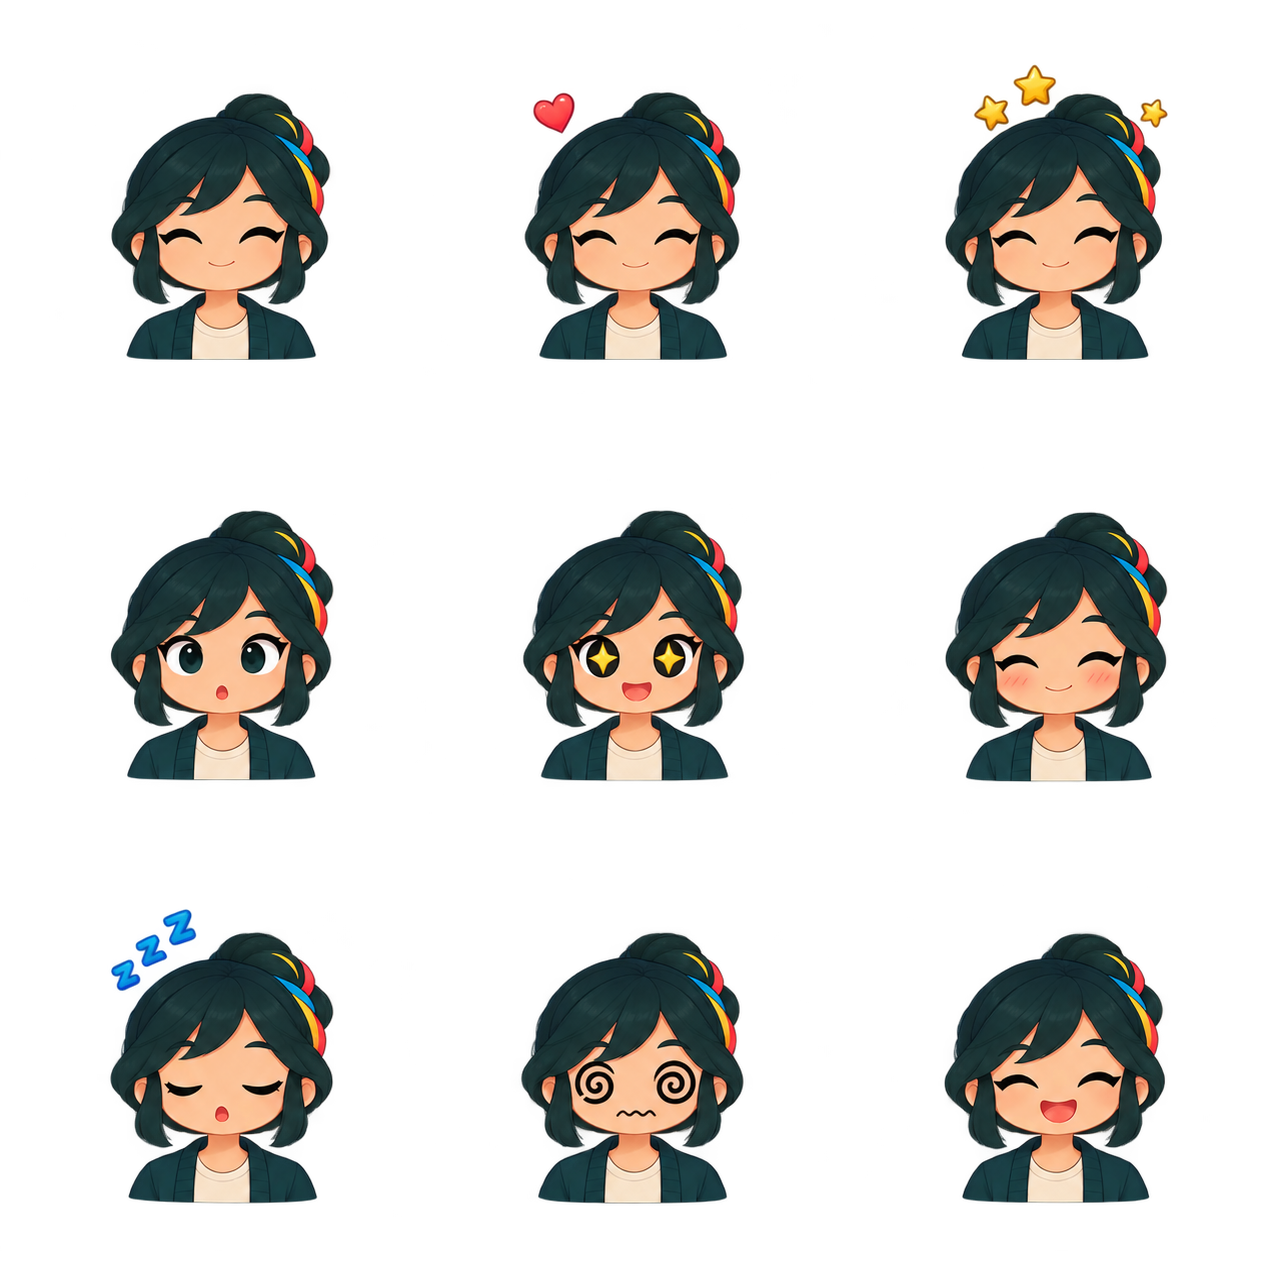
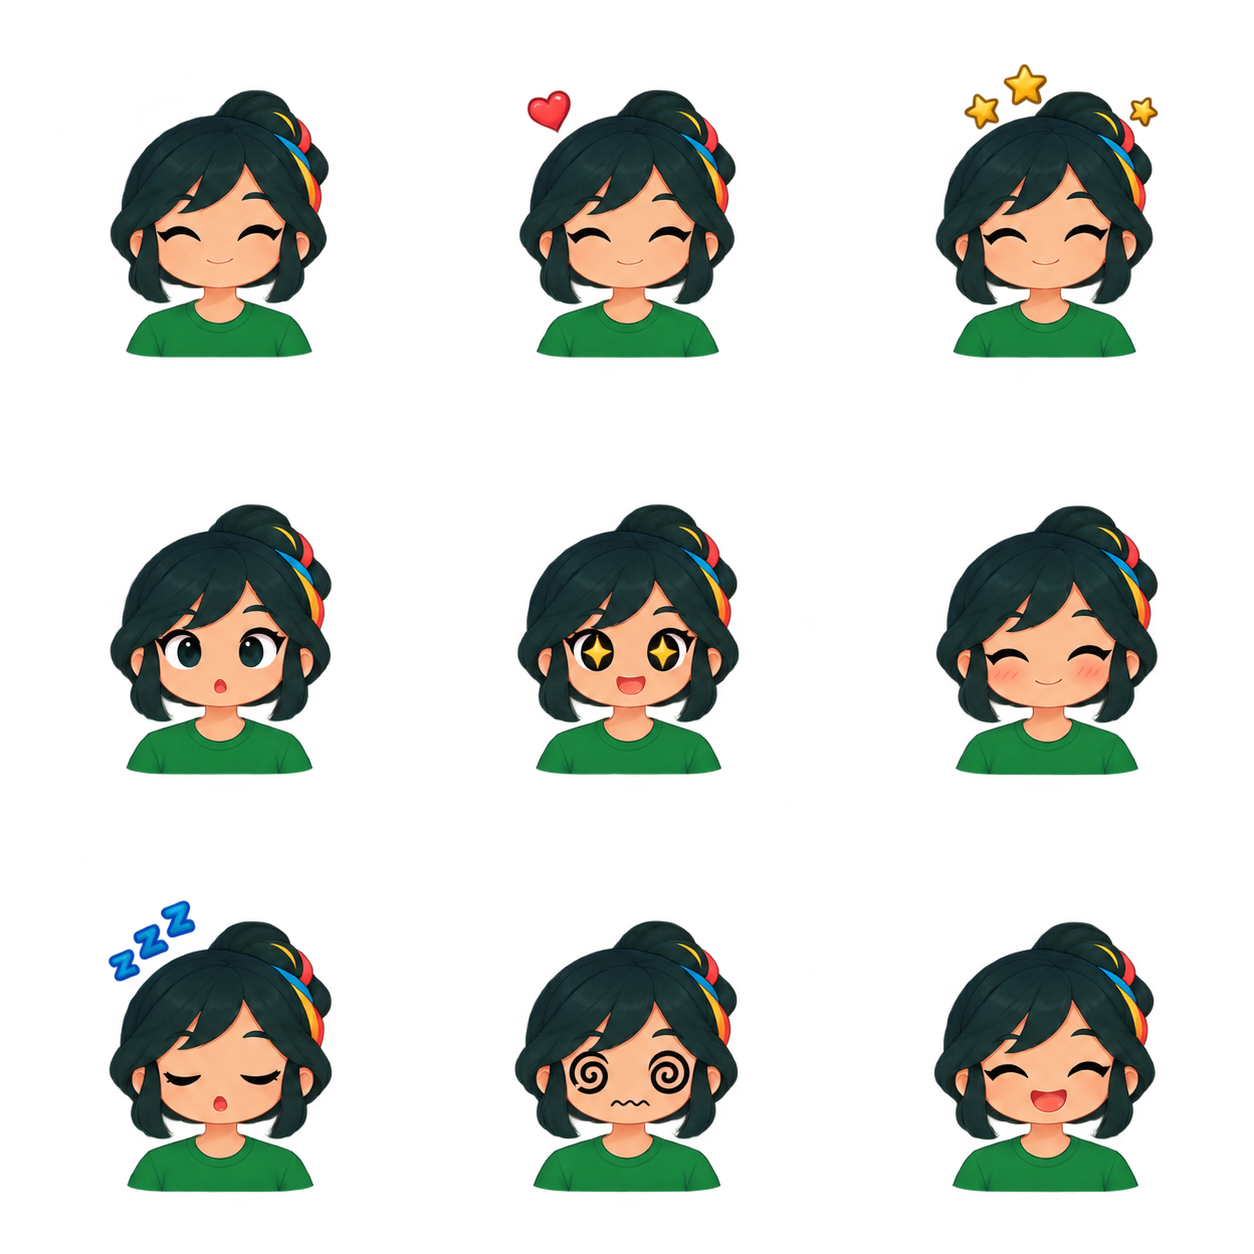
Dress default Nara in a plain green tee
Assisted-by: Codex

diff --git a/frontend/characters/nara-default/README.md b/frontend/characters/nara-default/README.md
@@ -1,44 +1,38 @@
 # Nara default — member chatbot
 
-Created October 16, 2026 with the built-in image generation tool and the installed [page-mascot](https://koboyo.com/page-mascot) skill. Both image calls used `transparent_background: true`. This is an everyday clothing variant of the existing Nara artwork, not a new catalogue character.
+Current outfit: a plain solid green crew-neck T-shirt, requested October 16, 2026. The cream top and teal cardigan from commit `8935de64` are superseded.
 
-## Sources and generation
+## Sources and edit
 
-- Identity references inspected before generation: `../nara-tanod/directions.png`, `../nara-tanod/reactions.png` and their README. Preserve warm skin, large dark teal eyes/catchlights, face proportions, swept bangs, compact dark teal bun, blush and cyan/yellow/coral hair accents.
-- `directions.png`: accepted first directions generation, 1254 × 1254 RGBA. Referenced both original sheets. Prompt requested the same polished chibi style, with the cap/uniform removed and replaced by a cream crew-neck top/deep teal casual cardigan. Nine viewer-relative head turns, identical front-facing neck/shoulders, head/upper shoulders only, generous gutters, no hands/props/text/shadow/backdrop.
-- Reactions attempt one referenced the accepted default directions and both original identity sheets. Rejected after screening found row-boundary contacts, even though packed metrics passed. It is not shipped. Original generated output remains at `C:\Users\chima\.codex\generated_images\01a1418e-f3f1-75a1-ba45-37e80a18cad9\exec-0c42e350-4369-4a61-a822-21ab35765b49.png` locally.
-- `reactions-generated.png`: unchanged second reaction generation, 1265 × 1243 RGBA. Referenced the accepted default directions plus original tanod reactions. Prompt repeated Nara's identity/outfit and required very small busts with 25% transparent gutters, identical bodies and the exact nine expression order. The generator still returned unequal row spacing on a rectangular canvas; every drawing was intact and isolated by transparent gaps.
-- `normalize-reactions.py` translates those intact rows into an equal square 3×3 canvas without resizing or redrawing the art. `reactions.png` is the resulting 1266 × 1266 source sheet. Both raw and normalized sources are preserved. One directions attempt and two reactions attempts total; no further image retries.
+The built-in image generation tool edited the existing Nara sheets with `transparent_background: true`. The directions edit referenced the previous default directions; the reactions edit referenced the previous default reactions and the accepted green-tee directions. One image call per sheet, with no retries.
 
-Directions: up-left / up / up-right; left / front / right; down-left / down / down-right. Left and right mean the viewer's directions.
+The prompts requested a clothing-only replacement: one plain green tee (base color reference `#16A34A`, with normal illustration shading), no cardigan, cream collar, lettering, logo or pattern. Preserve Nara's warm skin, face proportions, large dark teal eyes/catchlights, blush, swept bangs, compact bun and cyan/yellow/coral hair accents. Retain all head directions, front-facing torsos, reactions, transparent gutters and upper-shoulder framing.
 
-Reactions: blink / heart / sparkle; surprised / starstruck / bashful; sleepy / spiral-eyed dizzy / delighted with an open smiling mouth. The existing runtime calls the starstruck cell `wink`; mappings are unchanged.
+- `directions.png` and `reactions.png`: current accepted green-tee sources, both 1254 × 1254 RGBA, directly copied from the image tool. No geometry normalization was required for this revision.
+- Served assets: `../../public/mascots/nara-default-directions.webp` and `nara-default-reactions.webp`, each 1080 × 1080 with alpha.
+- `reactions-generated.png` and `normalize-reactions.py` are historical artifacts from the first cardigan variant. **Do not run the old normalizer over the current green-tee source.** Initial sources and evidence are recoverable from commit `8935de64`.
 
-## Build and evidence
+Directions remain viewer-relative: up-left / up / up-right; left / front / right; down-left / down / down-right. Reactions remain blink / heart / sparkle; surprised / starstruck / bashful; sleepy / spiral-eyed dizzy / delighted with an open smiling mouth. The unchanged runtime calls the starstruck cell `wink`.
+
+## Rebuild
 
 From `frontend`, using Python with Pillow, NumPy and SciPy:
 
 ```powershell
-python characters/nara-default/normalize-reactions.py
 python C:/Users/chima/.codex/skills/page-mascot/scripts/mascot.py nara-default --skip-generate
 python characters/nara-default/inspect-portraits.py
 ```
 
-Tooling packages were installed outside the repository at `C:\Users\chima\.codex\scratch\nara-default-python`; set `PYTHONPATH` to that directory when using this machine's default Python. No application dependency was added.
+On this machine, the isolated tool packages are at `C:\Users\chima\.codex\scratch\nara-default-python`; set `PYTHONPATH` to that directory when using the default Python. No app dependency was added. The workflow uses the installed [page-mascot skill](https://koboyo.com/page-mascot), including its screening, packing and verification scripts.
 
-The skill builds `public/mascots/nara-default-directions.webp` and `nara-default-reactions.webp`, each 1080 × 1080 with real alpha. [Packing output](packing-verification.txt): source alpha passes, no edge contacts on either sheet, direction shoulder spread 2.7%, reaction shoulder spread 1.6%; 0.00 rendered px vertical shift at 140 px, 86.2% palette agreement, 5.4% shoulder-width difference, 70.8% minimum body-band overlap. These are measured alignment checks, not proof of pixel-identical faces or bodies.
+## Current verification — October 16, 2026
 
-Local visual inspection covered [all eighteen cells](verification/atlas-contact.png), [viewer-left/right crops](verification/viewer-left-right.png), the [front/blink alignment overlay](verification/alignment-overlay.png), and [32/40/48/88 px portraits on light/dark backgrounds](verification/portrait-sizes.png). All nine expressions remain recognizable, especially the open-mouth smile and spiral eyes. [Framing measurements](verification/framing.json) find zero clipped pixels above alpha 40 in every frame at the portrait's 1.2× scale. The previews use Pillow compositing; they are not browser screenshots. Normal generated variation remains in head contour/bun placement and shoulder detail; the body-width change is 5.4%, not zero. The skill's bottom-edge fade is retained.
+[Packing output](packing-verification.txt): both sources have real alpha and no cell-edge contacts. Shoulder spread is 2.7% in both sheets. Packed vertical shift is 0.00 rendered px at 140 px, palette agreement 76.7%, shoulder-width difference 4.7%, minimum body-band overlap 70.9%. These measurements do not imply pixel-identical artwork.
 
-## Integration and checks
+Local inspection covers [all eighteen cells](verification/atlas-contact.png), [viewer-left/right crops](verification/viewer-left-right.png), [front/blink alignment](verification/alignment-overlay.png), and [32/40/48/88 px previews on light/dark backgrounds](verification/portrait-sizes.png). The plain green tee is present throughout; the smiling hover mouth and spiral eyes remain recognizable. [Framing measurements](verification/framing.json) find zero clipped pixels above alpha 40 in every frame at the existing 1.2× portrait scale. The skill's bottom fade is retained. Generated contour/bun and shoulder-detail variation remains; measured shoulder-width difference is 4.7%.
 
-`src/features/member-assistant/NaraPortrait.tsx` references this variant locally. Its viewport sizes remain unchanged, and its inner scale changes from 1.7× to 1.2× to fit the new atlas geometry. Existing launcher drop shadow stays in CSS. The shared `NaraSprite.jsx` runtime/license, auth asset paths, launcher, conversation, composer, session, command and credit logic are unchanged by this variant.
+`npx vitest run src/features/member-assistant/nara-portrait.test.tsx src/features/member-assistant/nara-chat.test.tsx`: **18 tests pass in 2 files**, covering local alpha WebP assets, portrait dimensions, all moods, pointer-follow, thinking cadence, hidden-tab/reduced-motion behavior, hover greetings and failure/credit reactions.
 
-Checks on October 16, 2026:
+The existing `NaraPortrait.tsx` already references these asset paths, so no runtime or component code changed in this revision. The unchanged launcher keeps its transparent 88 px portrait and CSS shadow. Prior complete member-assistant checks (82 tests, TypeScript, scoped lint and design detector) passed for the initial integration in `8935de64`.
 
-- `npx vitest run src/features/member-assistant`: **82 tests pass in 8 files**, including ten new portrait/asset checks and existing pointer-follow, thinking cadence, hidden-tab, reduced-motion, tooltip, failure/credit, composer, command and session regressions. jsdom reports its existing unimplemented document-navigation notices.
-- `npx tsc --noEmit --incremental false`: passes.
-- `npx eslint src/features/member-assistant/NaraPortrait.tsx src/features/member-assistant/nara-portrait.test.tsx`: passes.
-- Impeccable detector on `NaraPortrait.tsx`: `[]` (no findings).
-
-Fresh browser verification was not performed because of the prior browser access-policy rejection. No alternate automation route was used. The shared frontend production build was deliberately not run during concurrent editing. No push, deployment, database or environment changes.
+The previews use Pillow compositing and are not browser screenshots. Fresh browser verification remains unavailable under the earlier access-policy rejection; no alternate automation route was used. No shared production build, push, deployment, database or environment change was performed.
